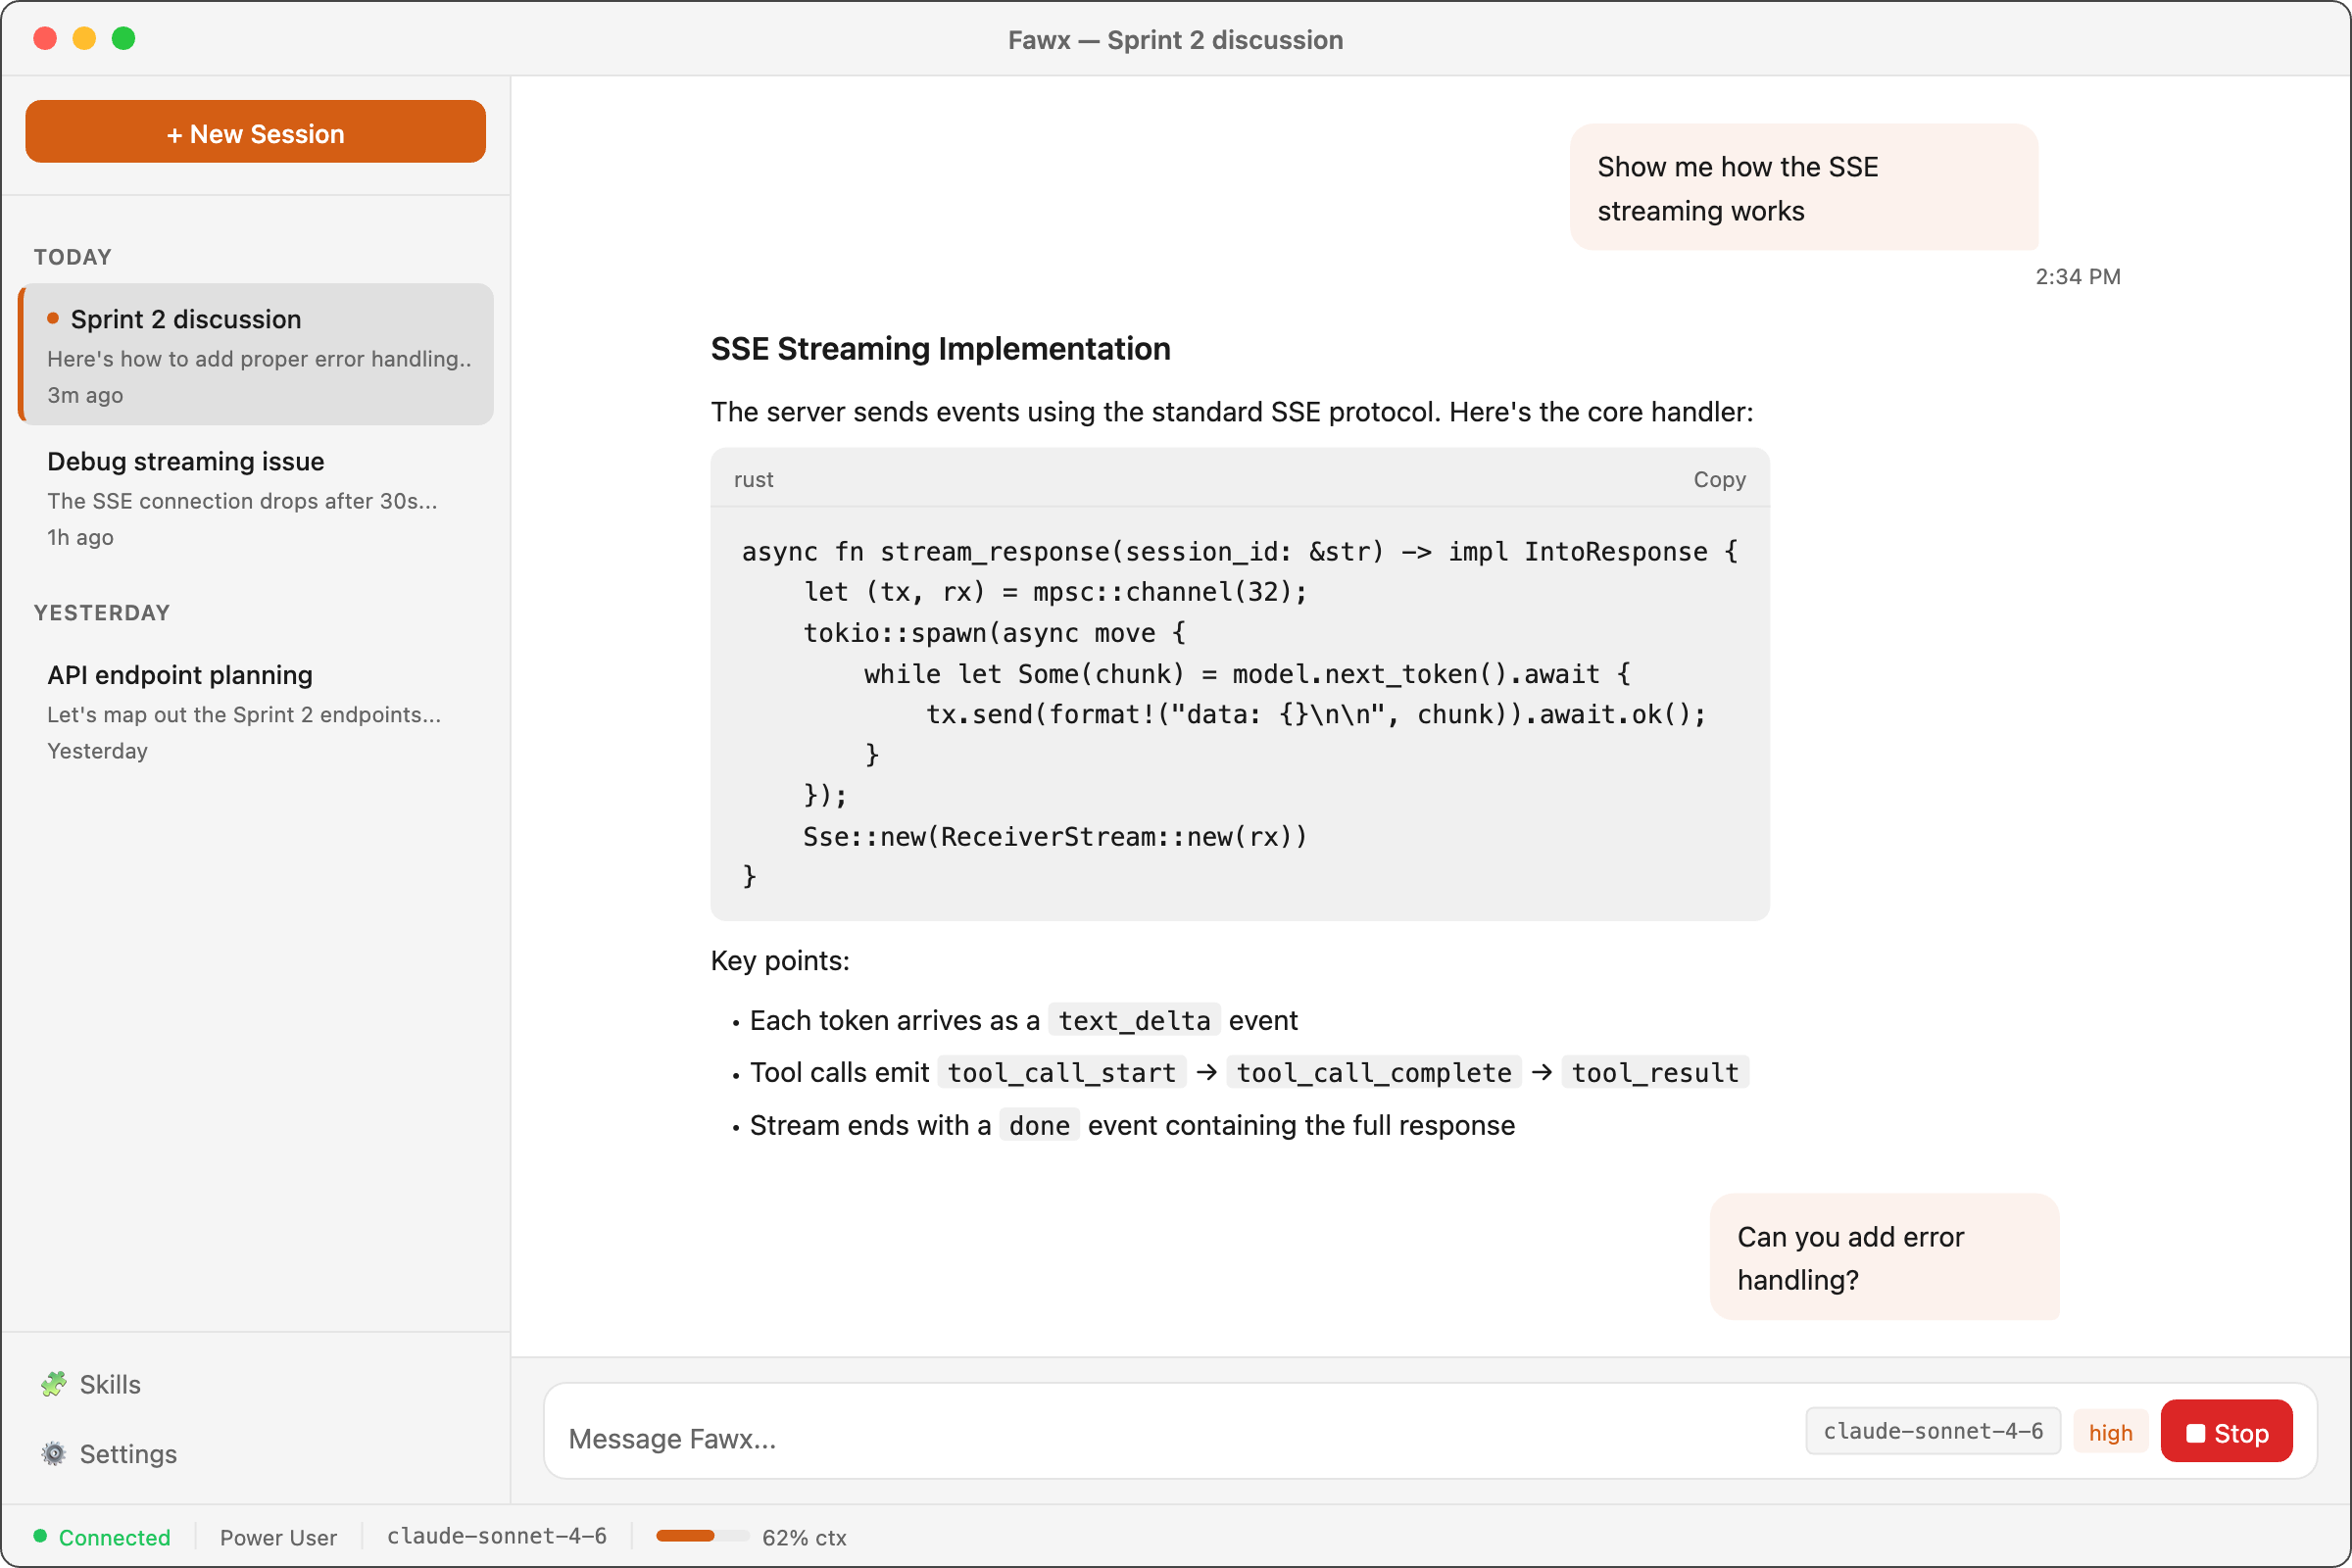
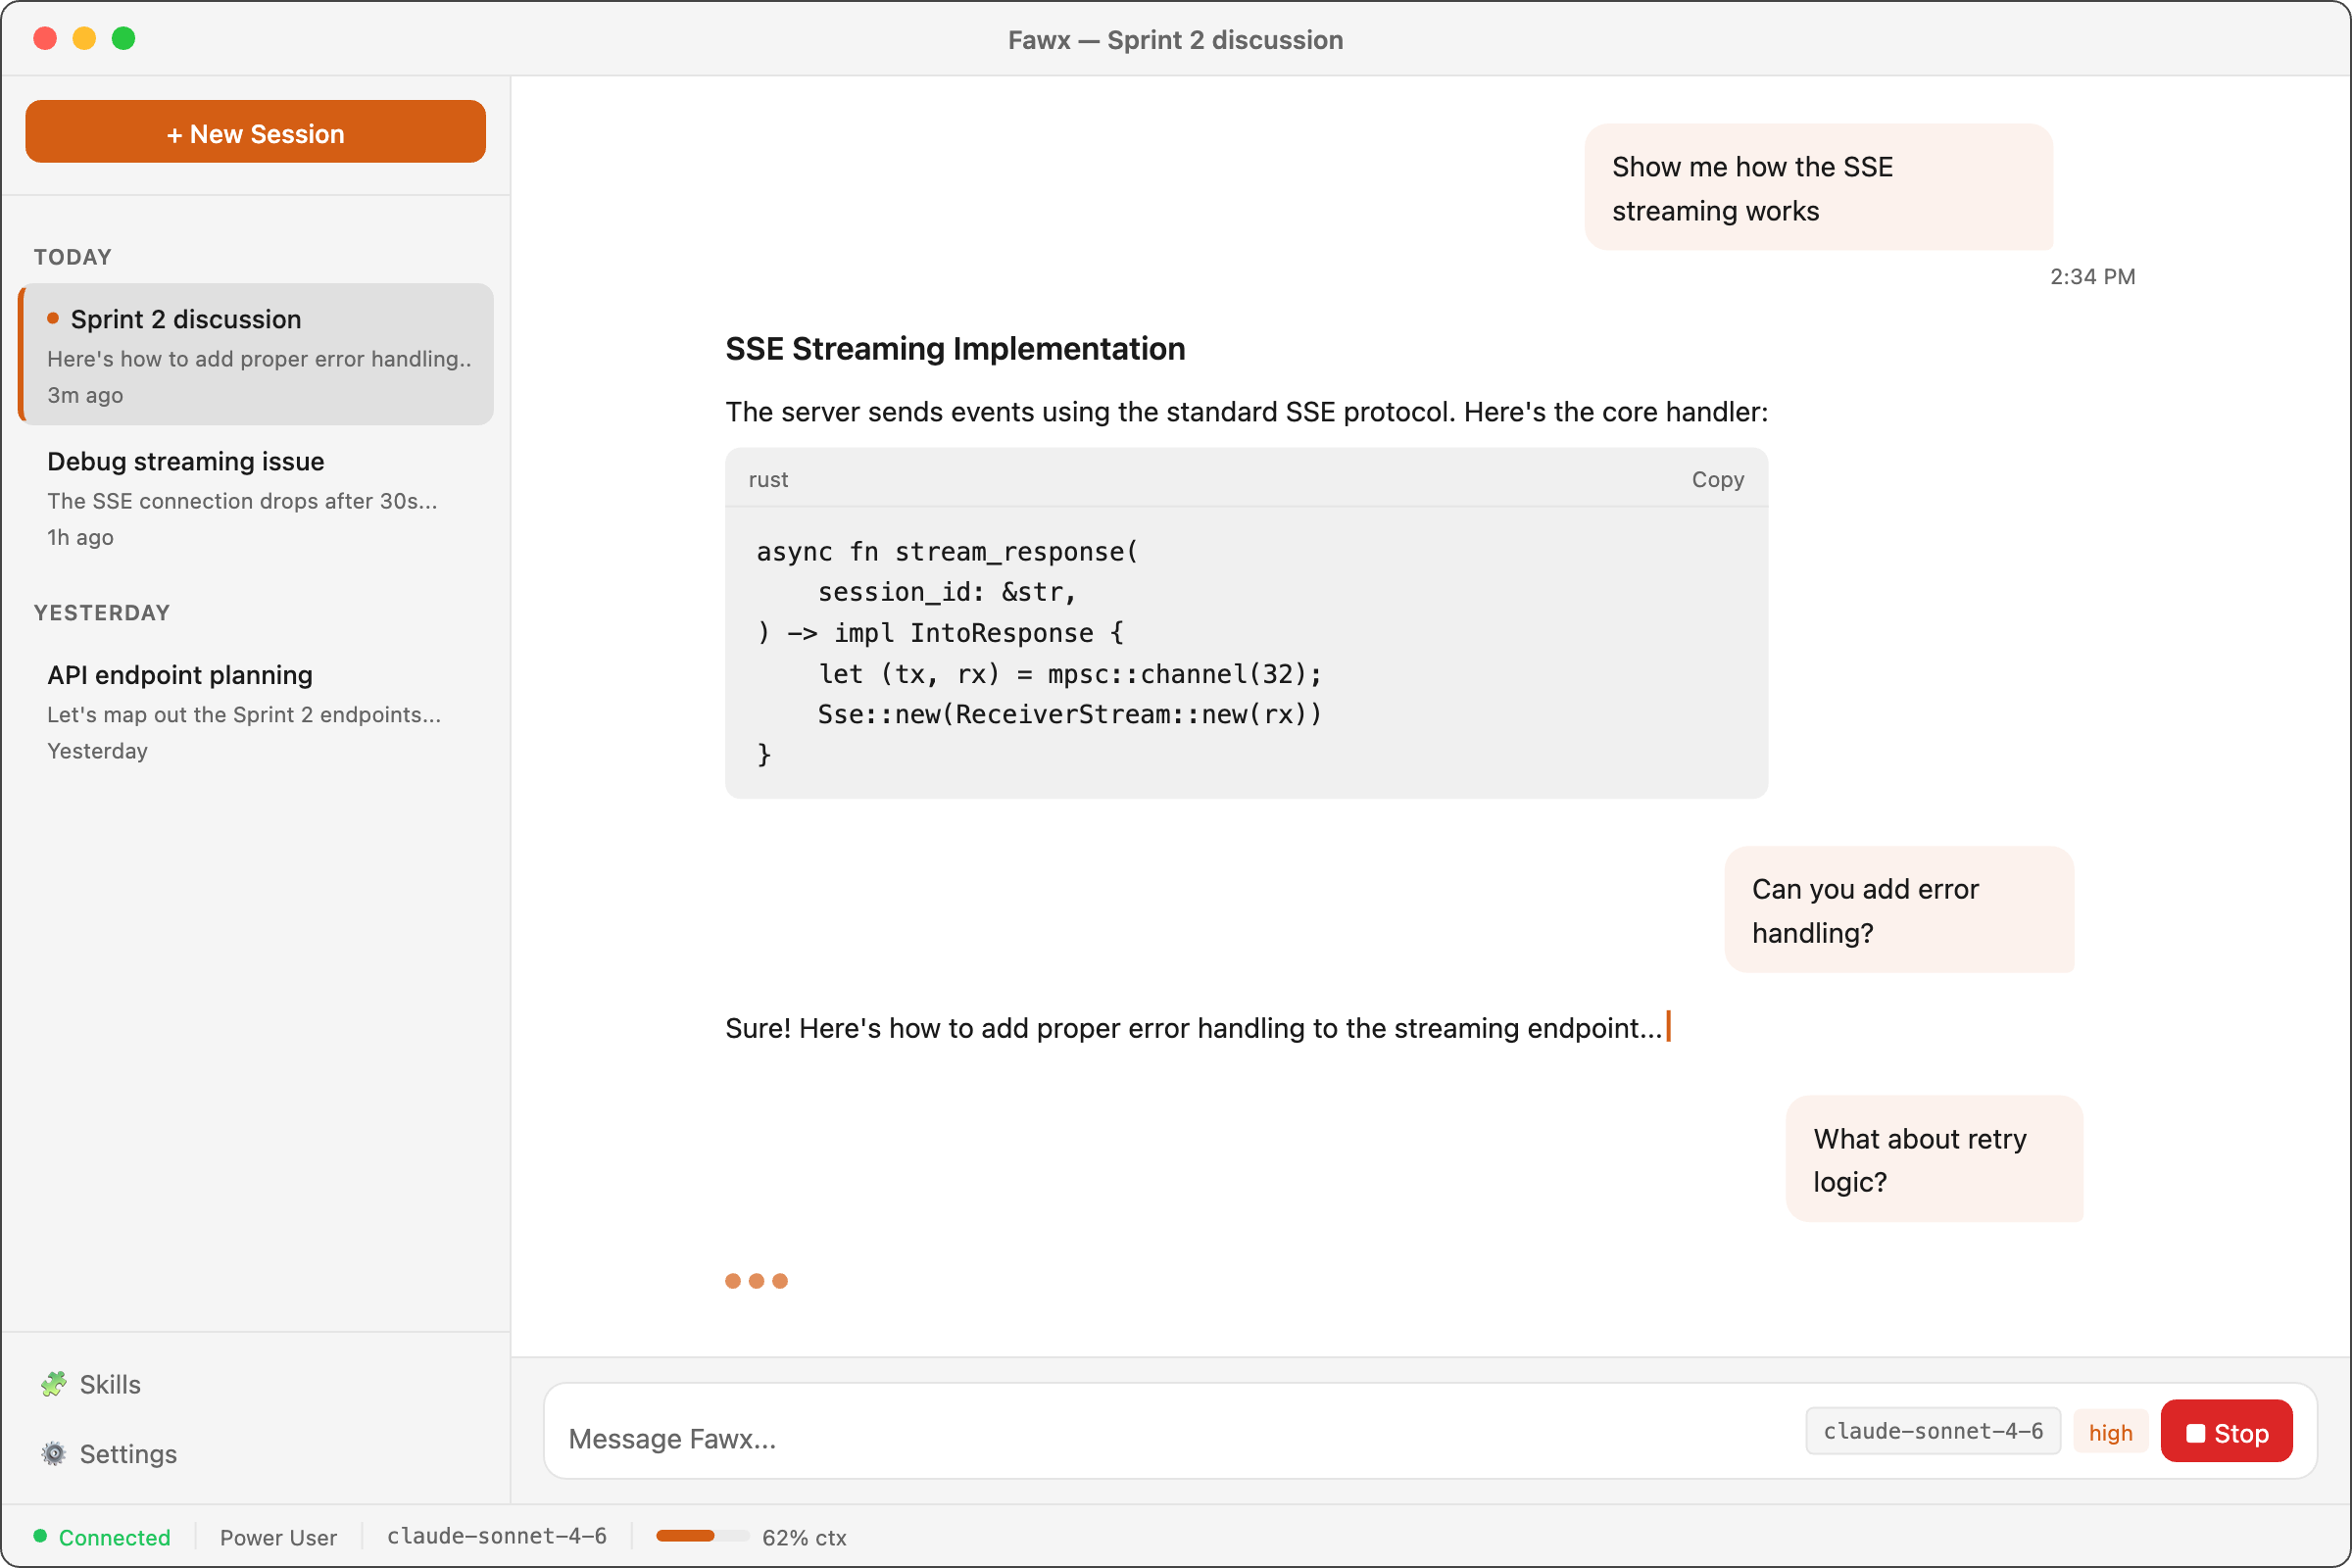
docs(design): shorten Screen 3 assistant msg so typing dots fit viewport
Remove bullet list from first SSE response to free ~80px. Now all three
critical reference states are visible without scrolling: streaming
partial text with cursor, second user message, and pulsing typing dots
(first-token wait indicator).

diff --git a/docs/design/fawx-mockups.html b/docs/design/fawx-mockups.html
@@ -795,22 +795,13 @@
               <p>The server sends events using the standard SSE protocol. Here's the core handler:</p>
               <div class="code-block">
                 <div class="code-header"><span>rust</span><button class="code-copy">Copy</button></div>
-                <div class="code-body">async fn stream_response(session_id: &str) -> impl IntoResponse {
+                <div class="code-body">async fn stream_response(
+    session_id: &str,
+) -> impl IntoResponse {
     let (tx, rx) = mpsc::channel(32);
-    tokio::spawn(async move {
-        while let Some(chunk) = model.next_token().await {
-            tx.send(format!("data: {}\n\n", chunk)).await.ok();
-        }
-    });
     Sse::new(ReceiverStream::new(rx))
 }</div>
               </div>
-              <p>Key points:</p>
-              <ul>
-                <li>Each token arrives as a <code class="inline">text_delta</code> event</li>
-                <li>Tool calls emit <code class="inline">tool_call_start</code> → <code class="inline">tool_call_complete</code> → <code class="inline">tool_result</code></li>
-                <li>Stream ends with a <code class="inline">done</code> event containing the full response</li>
-              </ul>
             </div>
             <!-- User message 2 -->
             <div style="align-self: flex-end;">